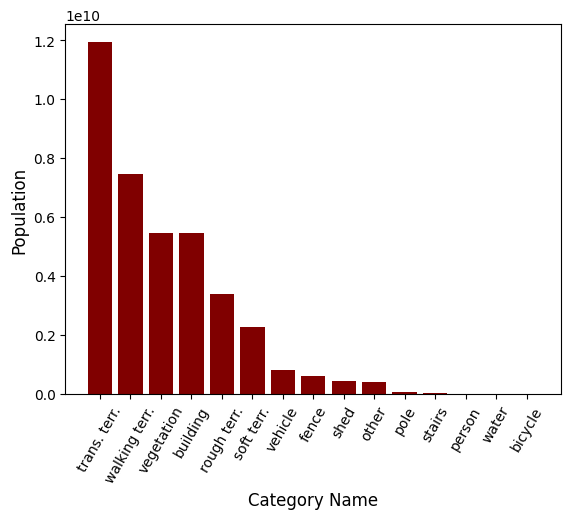
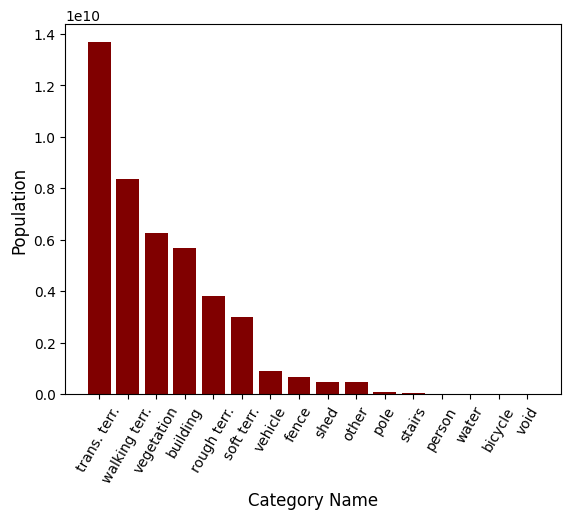
Updating the class histograms for the paper.

diff --git a/tools/alta/class_histogram.py b/tools/alta/class_histogram.py
@@ -2,7 +2,7 @@ import matplotlib.pyplot as plt
 import numpy as np
 
 keys = [
-    # 'background',  # 0
+    'void',  # 0
     'bicycle',  # 1
     'building',  # 2
     'fence',  # 3
@@ -19,8 +19,12 @@ keys = [
     'walking terr.',  # 14
     'water',  # 15
 ]
-# values = np.array((268814, 229262856, 35228303, 20217782, 1150188, 3838590, 142051812, 15539169, 13295549, 3026753, 711029194, 215685325, 57806647, 467720714, 86985))
-values = np.array((5021032,  5473128537,   608690312,   398167109,     9009185, 79645243,  3377697914,   454961409,  2272579525,    26250093, 11940611075,  5477815980,   809150593,  7480051017,     6935121))
+num_classes=16
+AgamimPathA_hist = [31522, 383468, 227730863, 35295341, 18005882, 1173707, 4244303, 125600525, 13837139, 11737163, 5778866, 714936537, 234801492, 58013721, 464674200, 93447, ]
+AgamimPathB_hist = [112041, 117317, 164123392, 57421339, 20429650, 105651, 5048636, 328455851, 21792463, 96998734, 1634637, 781109580, 473067269, 55777244, 409130156, 60616, ]
+AgamimPathC_hist = [99561, 97745, 199139015, 24103206, 21193658, 94631, 4143944, 109727685, 18196612, 308767480, 916901, 663199290, 565340325, 36926677, 203529072, 404646, ]
+Descend_hist = [1428963, 4621211, 5100072355, 539554508, 401859215, 9077787, 81155457, 3257125188, 410461075, 2558784243, 17916206, 11521617835, 4973968734, 760943821, 7284456135, 6390867, 1428963, ]
+values = np.array([(AgamimPathA_hist[i]+AgamimPathB_hist[i]+AgamimPathC_hist[i]+Descend_hist[i]) for i in range(num_classes)])
 indices = np.argsort(values)[::-1]
 values = list(values)
 
@@ -37,7 +41,7 @@ plt.savefig('./class_hist.png', bbox_inches='tight')
 plt.close()
 
 plt.figure()
-small_classes_num = 5
+small_classes_num = 6
 plt.bar(keys[-small_classes_num:], values[-small_classes_num:], color = 'maroon', width=0.8)
 plt.xticks(range(small_classes_num), keys[-small_classes_num:], rotation=60)
 plt.xlabel('Category Name', fontsize=12)
